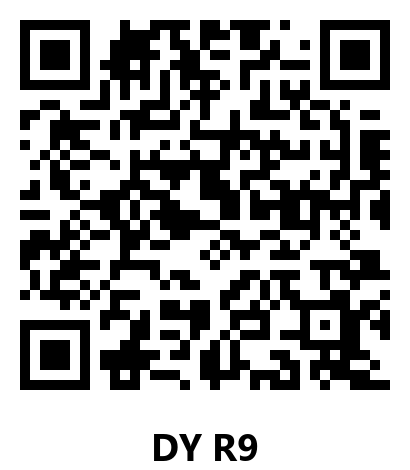
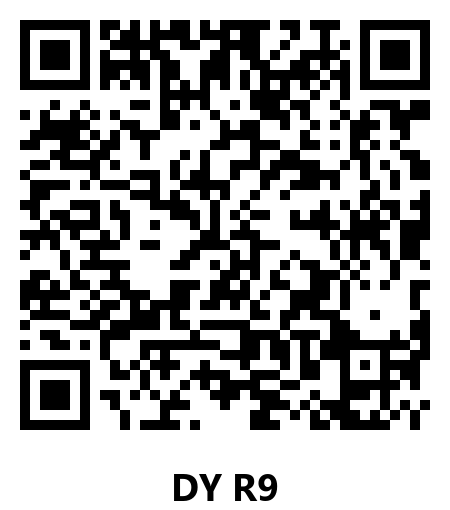
Point final QR codes at the live production domain
Regenerated print-ready QR codes to encode blr-flex.vercel.app
instead of the local dev server, ready for flex printing.

diff --git a/generate_qr.py b/generate_qr.py
@@ -12,8 +12,7 @@ from PIL import Image, ImageDraw, ImageFont
 import os
 
 # ---- CONFIG ----
-# Change this to your live Vercel URL after deployment, e.g. "https://your-app.vercel.app"
-BASE_URL = "http://localhost:8080"
+BASE_URL = "https://blr-flex.vercel.app"
 
 OUTPUT_DIR = "qr-codes"
 
